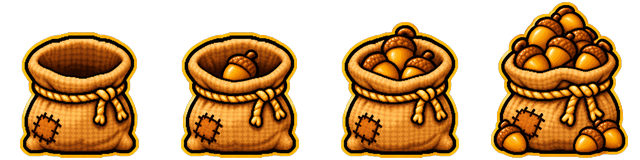
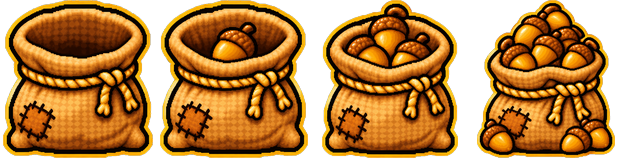
preview (not live): v3.16.1 Secret Squirrels bonus sacks fill their boxes (each fitted to 156x158)
Claude-Session: https://claude.ai/code/session_01KmGxi5FWQEcSyM2TCx745j

diff --git a/secret-squirrels.html b/secret-squirrels.html
@@ -101,7 +101,7 @@ const SYMBOLS=['acorn','binoculars','oak-leaf','pinecone','sack-of-nuts','walkie
 const SYM={cell:120,size:112};                // drawn 112 px inside the 140 px boxes
 // Bonus boxes: a sack of nuts in one of four fill levels (owner idea: $0 / $1 / $5 / $10; not final, no prizes paid yet).
 const SACKS=['empty','few','half','overflowing'];
-const SACK={cell:160};                         // secret-squirrels-sacks.png: 4 cells, same scale, bottom aligned
+const SACK={w:156,h:158};                      // secret-squirrels-sacks.png: 4 cells, each sack as big as the box allows
 const sackSheet=new Image();
 const symSheet=new Image(),symCv=document.getElementById('symbols'),symCx=symCv.getContext('2d');
 let ticketNo=0,deal={};
@@ -110,10 +110,10 @@ function dealSymbols(){
  let st=(ticketNo+1)*2654435761>>>0;const r=()=>{st=st+0x6D2B79F5|0;let t=Math.imul(st^st>>>15,1|st);t=t+Math.imul(t^t>>>7,61|t)^t;return((t^t>>>14)>>>0)/4294967296;};
  deal={};symCx.clearRect(0,0,1024,1536);
  for(const w of WINDOWS){if(w.kind==='bonus'){const k=Math.floor(r()*SACKS.length);deal[w.id]='sack-'+SACKS[k];
-  if(sackSheet.complete&&sackSheet.naturalWidth)symCx.drawImage(sackSheet,k*SACK.cell,0,SACK.cell,SACK.cell,w.x+(w.w-SACK.cell)/2,w.y+w.h-SACK.cell-14,SACK.cell,SACK.cell);continue;}const k=Math.floor(r()*SYMBOLS.length);deal[w.id]=SYMBOLS[k];
+  if(sackSheet.complete&&sackSheet.naturalWidth)symCx.drawImage(sackSheet,k*SACK.w,0,SACK.w,SACK.h,w.x+(w.w-SACK.w)/2,w.y+(w.h-SACK.h)/2,SACK.w,SACK.h);continue;}const k=Math.floor(r()*SYMBOLS.length);deal[w.id]=SYMBOLS[k];
   if(symSheet.complete&&symSheet.naturalWidth)symCx.drawImage(symSheet,k*SYM.cell,0,SYM.cell,SYM.cell,w.x+(w.w-SYM.size)/2,w.y+(w.h-SYM.size)/2,SYM.size,SYM.size);}
 }
-symSheet.onload=dealSymbols;sackSheet.onload=dealSymbols;sackSheet.src='secret-squirrels-sacks.png?v=3.16.1c';symSheet.src='secret-squirrels-symbols.png?v=3.16.1b';
+symSheet.onload=dealSymbols;sackSheet.onload=dealSymbols;sackSheet.src='secret-squirrels-sacks.png?v=3.16.1d';symSheet.src='secret-squirrels-symbols.png?v=3.16.1b';
 function setup(){
  dealSymbols();
  seed=20261124;grains=[];cx.clearRect(0,0,1024,1536);crumbs.clearRect(0,0,1024,1536);
